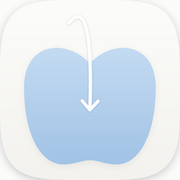
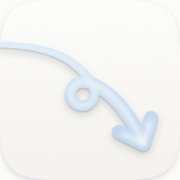
랜딩: 새 앱 아이콘 + 맨 위 로고 모션, 순서 정리 (#71)
* 랜딩: 시연 메뉴 막대의 Apple 로고 삭제, Pretendard 폰트 라이선스(OFL) 파일 추가

Claude-Session: https://claude.ai/code/session_015GUgjoKAUx4Gmz2Dovu94t

* 랜딩: 새 앱 아이콘(하늘 선)으로 아이콘·공유 미리보기 교체

- assets/favicon.png, icon-128.png, icon-256.png, apple-touch-icon.png, icon.png 교체
- og.png 왼쪽 아이콘만 교체(문구·배치 그대로), og:image ?v=9 → ?v=10

Claude-Session: https://claude.ai/code/session_015GUgjoKAUx4Gmz2Dovu94t

* 임시: 앱 아이콘 파일 전달용 (다음 커밋에서 삭제)

Claude-Session: https://claude.ai/code/session_015GUgjoKAUx4Gmz2Dovu94t

* 임시 아이콘 전달 파일 삭제

Claude-Session: https://claude.ai/code/session_015GUgjoKAUx4Gmz2Dovu94t

* 랜딩: 맨 위 로고 모션 추가, 순서를 로고·제목 → 시연 → 설명으로

- logo.js: 화살표 선이 그려지고 아이콘이 된 뒤 Dropfit 글자가 나오는 모션(한 번 재생 후 멈춤, 동작 줄이기 대응)
- 시연 무대를 제목 아래로 이동, 시연·넘겨 보기 애니메이션은 그대로
- 제목 위 작은 글씨에서 로고와 겹치는 'Dropfit ·' 제거

Claude-Session: https://claude.ai/code/session_015GUgjoKAUx4Gmz2Dovu94t

* 다운로드 집계 버전 0.6.4로

Claude-Session: https://claude.ai/code/session_015GUgjoKAUx4Gmz2Dovu94t

* 임시: macOS 26 아이콘 시험 파일 전달용 (다음 커밋에서 삭제)

Claude-Session: https://claude.ai/code/session_015GUgjoKAUx4Gmz2Dovu94t

* 임시 전달 파일 삭제

Claude-Session: https://claude.ai/code/session_015GUgjoKAUx4Gmz2Dovu94t

* 다운로드 집계 버전은 앱 공개 때 0.6.4로 (지금 받는 파일은 0.6.3)

Claude-Session: https://claude.ai/code/session_015GUgjoKAUx4Gmz2Dovu94t

---------

diff --git a/logo.js b/logo.js
@@ -1,0 +1,145 @@
+/* Dropfit 첫 화면 로고 모션
+   화살표 선이 그려지고(아이콘과 같은 경로·굵기 2.2→5.6) → 아이콘 칸이 떠오르며 꼬리가 칸에 맞춰 잘리고 속빛이 켜짐
+   → 아이콘이 살짝 올라가며 Dropfit 글자가 한 자씩. 화면에 들어오면 한 번 재생하고 완성된 모습으로 멈춘다.
+   속도는 첫 시안의 0.8배(K = 1.25), 튕김 없는 곡선만 쓴다. '동작 줄이기'에서는 완성된 모습만 보인다. */
+(function () {
+  'use strict';
+  var host = document.getElementById('dfLogo');
+  if (!host) return;
+
+  var NS = 'http://www.w3.org/2000/svg';
+  var GP = 'M9.7 33.3C26 32.6 40 34.5 48.2 41.2C53.4 45.5 56.3 49.4 56.3 53A4.8 4.8 0 1 1 51.5 48.2C59.5 48.2 70 59 76 73.2';
+  var K = 1.25, END = 3.1 * K;
+
+  /* 아이콘 바깥 모양(스퀘어클, n = 5): 앱 아이콘과 같은 식으로 만든다 */
+  function squircle() {
+    var pts = [], n = 5, a = 42;
+    for (var i = 0; i < 360; i++) {
+      var t = i / 360 * 2 * Math.PI, c = Math.cos(t), s = Math.sin(t);
+      pts.push((50 + a * Math.sign(c) * Math.pow(Math.abs(c), 2 / n)).toFixed(3) + ' ' + (50 + a * Math.sign(s) * Math.pow(Math.abs(s), 2 / n)).toFixed(3));
+    }
+    return 'M' + pts.join('L') + 'Z';
+  }
+  var SQ = squircle();
+
+  function bezier(x1, y1, x2, y2) {
+    return function (x) {
+      if (x <= 0) return 0; if (x >= 1) return 1;
+      var t = x;
+      for (var i = 0; i < 12; i++) {
+        var cx = 3 * x1 * t * (1 - t) * (1 - t) + 3 * x2 * t * t * (1 - t) + t * t * t - x;
+        if (Math.abs(cx) < 1e-6) break;
+        var dx = 3 * x1 * (1 - t) * (1 - t) + 6 * (x2 - x1) * t * (1 - t) + 3 * (1 - x2) * t * t;
+        t = Math.min(1, Math.max(0, t - cx / (dx || 1e-6)));
+      }
+      return 3 * y1 * t * (1 - t) * (1 - t) + 3 * y2 * t * t * (1 - t) + t * t * t;
+    };
+  }
+  var DRAW = bezier(0.55, 0, 0.18, 1), GLIDE = bezier(0.22, 1, 0.36, 1), SILK = bezier(0.65, 0, 0.25, 1);
+  function seg(T, a, d) { return Math.min(1, Math.max(0, (T - a) / d)); }
+  function lerp(a, b, t) { return a + (b - a) * t; }
+  function f2(n) { return n.toFixed(2); }
+
+  /* 선 표본 */
+  var probe = document.createElementNS(NS, 'svg');
+  probe.setAttribute('width', '0'); probe.setAttribute('height', '0'); probe.style.position = 'absolute';
+  var pe = document.createElementNS(NS, 'path'); pe.setAttribute('d', GP); probe.appendChild(pe);
+  document.body.appendChild(probe);
+  var L = pe.getTotalLength(), N = 700, PTS = [];
+  for (var i = 0; i <= N; i++) {
+    var s = i / N * L, p = pe.getPointAtLength(s), q = pe.getPointAtLength(Math.min(L, s + 0.12)), o = pe.getPointAtLength(Math.max(0, s - 0.12));
+    var dx = q.x - o.x, dy = q.y - o.y, m = Math.hypot(dx, dy) || 1;
+    PTS.push([p.x, p.y, -dy / m, dx / m]);
+  }
+  document.body.removeChild(probe);
+  function W(t) { t = t * t * (3 - 2 * t); return 2.2 + 3.4 * t; }
+  function ribbon(u, k) {
+    k = k || 1;
+    var n = Math.max(1, Math.round(u * N)), l = [], r = [];
+    for (var j = 0; j <= n; j++) {
+      var P = PTS[j], w = W(j / N) * k / 2;
+      l.push(f2(P[0] + P[2] * w) + ' ' + f2(P[1] + P[3] * w));
+      r.push(f2(P[0] - P[2] * w) + ' ' + f2(P[1] - P[3] * w));
+    }
+    return 'M' + l.concat(r.reverse()).join('L') + 'Z';
+  }
+  var FULL = ribbon(1), CORE = ribbon(1, 0.42);
+  var TIP = [76, 73.2], ARM_A = [79.13, 62.66], ARM_B = [66.14, 68.32];
+  function around(sc) { return 'translate(50 50) scale(' + sc.toFixed(4) + ') translate(-50 -50)'; }
+
+  var u = 'dfl';
+  host.innerHTML = '<div class="lg-lock"><div class="lg-ic"><svg viewBox="0 0 100 100" aria-hidden="true"><defs>' +
+    '<linearGradient id="b' + u + '" x1="0" y1="0" x2="0" y2="1"><stop offset="0" stop-color="#FCFCFA"/><stop offset="1" stop-color="#F3F2EE"/></linearGradient>' +
+    '<filter id="s' + u + '" x="-20%" y="-20%" width="140%" height="140%"><feDropShadow dx="0" dy="1.2" stdDeviation="1.4" flood-color="rgb(18,28,45)" flood-opacity=".12"/></filter>' +
+    '<filter id="h' + u + '" x="-20%" y="-20%" width="140%" height="140%"><feDropShadow dx="0" dy="0.5" stdDeviation="0.35" flood-color="rgb(18,28,45)" flood-opacity=".18"/><feDropShadow dx="0" dy="1.8" stdDeviation="1.6" flood-color="rgb(18,28,45)" flood-opacity=".14"/></filter>' +
+    '<linearGradient id="vg' + u + '" gradientUnits="userSpaceOnUse" x1="0" y1="30" x2="0" y2="76"><stop offset="0" stop-color="#dae9f7"/><stop offset="1" stop-color="#bed5ec"/></linearGradient>' +
+    '<clipPath id="t' + u + '"><path class="lg-clip" d="' + SQ + '"/></clipPath>' +
+    '<mask id="cm' + u + '" maskUnits="userSpaceOnUse" x="-20" y="-20" width="140" height="140"><g fill="#fff"><path d="' + FULL + '"/><circle cx="9.7" cy="33.3" r="1.1"/><circle cx="76" cy="73.2" r="2.8"/></g><path d="M79.13 62.66L76 73.2L66.14 68.32" fill="none" stroke="#fff" stroke-width="5.6" stroke-linecap="round" stroke-linejoin="round"/></mask>' +
+    '<filter id="cb' + u + '" filterUnits="userSpaceOnUse" x="-20" y="-20" width="140" height="140"><feGaussianBlur stdDeviation="0.9"/></filter></defs>' +
+    '<path class="lg-tile" d="' + SQ + '" fill="url(#b' + u + ')" filter="url(#s' + u + ')"/>' +
+    '<g clip-path="url(#t' + u + ')"><g transform="translate(50 50) scale(1.16) translate(-54.5 -51.5)">' +
+      '<g filter="url(#h' + u + ')"><g fill="url(#vg' + u + ')"><path class="lg-rb"/><circle cx="9.7" cy="33.3" r="1.1"/><circle class="lg-hd"/></g>' +
+      '<path class="lg-chev" fill="none" stroke="url(#vg' + u + ')" stroke-width="5.6" stroke-linecap="round"/></g>' +
+      '<g class="lg-core" mask="url(#cm' + u + ')"><g filter="url(#cb' + u + ')" fill="#FCFCFA" fill-opacity=".6"><path d="' + CORE + '"/><circle cx="9.7" cy="33.3" r=".46"/><circle cx="76" cy="73.2" r="1.18"/>' +
+      '<path d="M78.51 64.76L76 73.2L68.11 69.3" fill="none" stroke="#FCFCFA" stroke-opacity=".6" stroke-width="2.352" stroke-linecap="round" stroke-linejoin="round"/></g></g>' +
+    '</g></g></svg></div>' +
+    '<div class="lg-wm" aria-hidden="true">' + 'Dropfit'.split('').map(function (c) { return '<span>' + c + '</span>'; }).join('') + '</div></div>';
+
+  function pick(sel) { return host.querySelector(sel); }
+  var E = { ic: pick('.lg-ic'), tile: pick('.lg-tile'), clip: pick('.lg-clip'), rb: pick('.lg-rb'), hd: pick('.lg-hd'), chev: pick('.lg-chev'),
+    core: pick('.lg-core'), letters: [].slice.call(host.querySelectorAll('.lg-wm span')) };
+  var lastU = -1;
+
+  function render(T) {
+    T = T / K;
+    /* 1. 선 그리기: 천천히 출발해 길게 감속 */
+    var du = DRAW(seg(T, 0.15, 1.0));
+    if (du !== lastU) {
+      lastU = du;
+      if (du <= 0) { E.rb.setAttribute('d', ''); E.hd.setAttribute('r', '0'); }
+      else {
+        E.rb.setAttribute('d', ribbon(du));
+        var P = PTS[Math.max(1, Math.round(du * N))];
+        E.hd.setAttribute('cx', f2(P[0])); E.hd.setAttribute('cy', f2(P[1])); E.hd.setAttribute('r', f2(W(du) / 2));
+      }
+    }
+    var a = GLIDE(seg(T, 1.0, 0.34)), b = GLIDE(seg(T, 1.07, 0.34)), d = '';
+    if (a > 0) d += 'M' + TIP[0] + ' ' + TIP[1] + 'L' + f2(lerp(TIP[0], ARM_A[0], a)) + ' ' + f2(lerp(TIP[1], ARM_A[1], a));
+    if (b > 0) d += 'M' + TIP[0] + ' ' + TIP[1] + 'L' + f2(lerp(TIP[0], ARM_B[0], b)) + ' ' + f2(lerp(TIP[1], ARM_B[1], b));
+    E.chev.setAttribute('d', d);
+    /* 2. 아이콘이 됨 */
+    E.tile.setAttribute('opacity', GLIDE(seg(T, 1.2, 0.55)).toFixed(3));
+    E.tile.setAttribute('transform', around(0.94 + 0.06 * GLIDE(seg(T, 1.2, 0.8))));
+    E.clip.setAttribute('transform', around(1.7 - 0.7 * SILK(seg(T, 1.2, 0.8))));
+    E.core.setAttribute('opacity', SILK(seg(T, 1.5, 0.65)).toFixed(3));
+    /* 3. 이름 */
+    var icw = E.ic.offsetWidth || 240, lift = (1 - SILK(seg(T, 1.9, 0.8))) * icw * (0.096 + 0.226 * 1.1) / 2;
+    var icS = 1.38 - 0.38 * SILK(seg(T, 1.12, 0.9));
+    E.ic.style.transform = 'translateY(' + lift.toFixed(2) + 'px) scale(' + icS.toFixed(4) + ')';
+    E.letters.forEach(function (el, i) {
+      var k = GLIDE(seg(T, 2.0 + 0.065 * i, 0.75));
+      el.style.opacity = k.toFixed(3);
+      el.style.transform = k < 1 ? 'translateY(' + ((1 - k) * icw * 0.03).toFixed(2) + 'px)' : 'none';
+      el.style.filter = k < 1 ? 'blur(' + ((1 - k) * icw * 0.02).toFixed(2) + 'px)' : 'none';
+    });
+  }
+
+  var reduce = window.matchMedia && window.matchMedia('(prefers-reduced-motion: reduce)').matches;
+  var t0 = null;
+  function frame(now) {
+    if (t0 === null) t0 = now;
+    var T = (now - t0) / 1000;
+    render(Math.min(T, END));
+    if (T < END) requestAnimationFrame(frame);
+  }
+  function play() { t0 = null; setTimeout(function () { requestAnimationFrame(frame); }, 350); }
+
+  if (reduce) { render(END); return; }
+  render(0);
+  if ('IntersectionObserver' in window) {
+    var io = new IntersectionObserver(function (es) {
+      es.forEach(function (e) { if (e.isIntersecting) { io.disconnect(); play(); } });
+    }, { threshold: 0.5 });
+    io.observe(host);
+  } else play();
+})();

diff --git a/index.html b/index.html
@@ -13,13 +13,13 @@
 <meta property="og:description" content="끌어다 놓으면 끝. 사진·PDF 변환과 자르기를 Mac에서 무료로.">
 <link rel="canonical" href="https://realleejeonghoon.github.io/dropfit-download/">
 <meta property="og:url" content="https://realleejeonghoon.github.io/dropfit-download/">
-<meta property="og:image" content="https://realleejeonghoon.github.io/dropfit-download/assets/og.png?v=9">
+<meta property="og:image" content="https://realleejeonghoon.github.io/dropfit-download/assets/og.png?v=10">
 <meta property="og:image:width" content="1200">
 <meta property="og:image:height" content="630">
 <meta property="og:image:alt" content="Dropfit 앱 아이콘과 문구 ‘끌어다 놓으면, 끝. Dropfit · Mac용 무료 이미지·PDF 변환 앱’">
 <meta property="og:locale" content="ko_KR">
 <meta name="twitter:card" content="summary_large_image">
-<meta name="twitter:image" content="https://realleejeonghoon.github.io/dropfit-download/assets/og.png?v=9">
+<meta name="twitter:image" content="https://realleejeonghoon.github.io/dropfit-download/assets/og.png?v=10">
 
 <link rel="stylesheet" href="fonts/pretendardvariable-dynamic-subset.css">
 <link rel="icon" type="image/png" href="assets/favicon.png">
@@ -94,6 +94,18 @@
   .intro .cta { flex-direction: row; justify-content: center; align-items: center; gap: 28px; margin-top: 36px; }
   .intro .cta-alt { font-size: 17px; }
   .intro .notice { margin: 28px auto 0; text-align: center; }
+  /* 맨 위 로고 모션(logo.js): 칸 없이 바탕에 바로, 아이콘은 무대 폭의 23%(최대 240px) */
+  .logo-top { padding: 56px 0 0; }
+  .logo-box { container-type: inline-size; }
+  .lg-lock { --icw: clamp(120px, 23cqw, 240px); display: flex; flex-direction: column; align-items: center; gap: calc(var(--icw) * .096); }
+  .lg-ic { width: var(--icw); aspect-ratio: 1; will-change: transform; }
+  .lg-ic svg { display: block; width: 100%; height: 100%; overflow: visible; }
+  .lg-wm { font-weight: 600; font-size: calc(var(--icw) * .226); line-height: 1.1; letter-spacing: -0.02em; color: var(--ink); display: flex; white-space: nowrap; }
+  .lg-wm span { display: inline-block; opacity: 0; }
+  .logo-top + .intro { padding-top: 36px; }
+  .intro + .demo-top { padding-top: 24px; }
+  @media (max-width: 734px) { .logo-top { padding-top: 40px; } .logo-top + .intro { padding-top: 28px; } }
+  @media (prefers-reduced-motion: reduce) { .lg-wm span { opacity: 1; } }
   @media (max-width: 734px) {
     .intro { padding: 44px 0 8px; }
     .intro .cta { flex-direction: column; gap: 16px; margin-top: 28px; }
@@ -616,7 +628,7 @@
   .cta-alt { font-size: 17px; }
   footer { background: #fbfbfd; }
   footer a { color: var(--ink-2); }
-  /* 시연을 첫 화면 맨 위에 */
+  /* 시연 무대 (11/3부터 로고·제목 아래) */
   .demo-top { padding: 40px 0 0; }
   .demo-top .stage { margin: 0; aspect-ratio: 16 / 10; animation: rise 1.1s var(--ease) both; }
   @media (max-width: 734px) { .demo-top { padding-top: 20px; } .demo-top .stage { aspect-ratio: 4 / 3.4; } }
@@ -685,17 +697,15 @@
   </div>
 </nav>
 
-<section class="demo-top" id="how" aria-label="Dropfit 시연">
+<section class="logo-top" aria-label="Dropfit">
   <div class="wrap">
-    <div class="stage" id="dfTop" role="img" aria-label="이미지를 Dropfit에 끌어와 포맷을 고르면 변환되는 시연: 사진 1장, 여러 장, 폴더, 여러 장을 PDF 하나로, 자르기">
-      <div class="menubar" aria-hidden="true"><b>Finder</b><span>파일</span><span>편집</span><span>보기</span><span class="mb-x">이동</span><span class="mb-x">윈도우</span><span class="mb-x">도움말</span><span class="sp mb-ic"><svg viewBox="0 0 24 14"><rect x=".75" y=".75" width="20" height="12.5" rx="3.6" fill="none" stroke="currentColor" stroke-width="1.2" opacity=".55"/><rect x="2.6" y="2.6" width="13" height="8.8" rx="2" fill="currentColor"/><path d="M22.6 5v4c.8-.3 1.3-1.1 1.3-2s-.5-1.7-1.3-2z" fill="currentColor" opacity=".55"/></svg></span><span class="mb-ic"><svg viewBox="0 0 18 14"><path d="M9 12.6 6.4 9.9a3.7 3.7 0 0 1 5.2 0zM3.9 7.4a7.3 7.3 0 0 1 10.2 0l-1.3 1.3a5.5 5.5 0 0 0-7.6 0zM1.3 4.8a11 11 0 0 1 15.4 0l-1.3 1.3a9.2 9.2 0 0 0-12.8 0z" fill="currentColor"/></svg></span><span class="mb-ic mb-x"><svg viewBox="0 0 16 14"><rect x=".7" y=".7" width="14.6" height="5.4" rx="2.7" fill="none" stroke="currentColor" stroke-width="1.2"/><circle cx="12.6" cy="3.4" r="1.6" fill="currentColor"/><rect x=".7" y="7.9" width="14.6" height="5.4" rx="2.7" fill="none" stroke="currentColor" stroke-width="1.2"/><circle cx="3.4" cy="10.6" r="1.6" fill="currentColor"/></svg></span><span id="demoDate">10월 22일 (목) 오후 3:54</span></div>
-    </div>
+    <div class="logo-box" id="dfLogo" role="img" aria-label="Dropfit 로고"></div>
   </div>
 </section>
 
 <header class="intro" id="top">
   <div class="wrap">
-    <p class="tag">Dropfit · Mac용 무료 이미지·PDF 변환 앱</p>
+    <p class="tag">Mac용 무료 이미지·PDF 변환 앱</p>
     <h1>끌어다 놓으면, <span class="grad">끝.</span></h1>
     <p class="lede">이미지와 PDF를 원하는 포맷으로. <br class="m">한 장도, 폴더째로도.</p>
     <div class="cta">
@@ -711,6 +721,14 @@
     </div>
   </div>
 </header>
+
+<section class="demo-top" id="how" aria-label="Dropfit 시연">
+  <div class="wrap">
+    <div class="stage" id="dfTop" role="img" aria-label="이미지를 Dropfit에 끌어와 포맷을 고르면 변환되는 시연: 사진 1장, 여러 장, 폴더, 여러 장을 PDF 하나로, 자르기">
+      <div class="menubar" aria-hidden="true"><b>Finder</b><span>파일</span><span>편집</span><span>보기</span><span class="mb-x">이동</span><span class="mb-x">윈도우</span><span class="mb-x">도움말</span><span class="sp mb-ic"><svg viewBox="0 0 24 14"><rect x=".75" y=".75" width="20" height="12.5" rx="3.6" fill="none" stroke="currentColor" stroke-width="1.2" opacity=".55"/><rect x="2.6" y="2.6" width="13" height="8.8" rx="2" fill="currentColor"/><path d="M22.6 5v4c.8-.3 1.3-1.1 1.3-2s-.5-1.7-1.3-2z" fill="currentColor" opacity=".55"/></svg></span><span class="mb-ic"><svg viewBox="0 0 18 14"><path d="M9 12.6 6.4 9.9a3.7 3.7 0 0 1 5.2 0zM3.9 7.4a7.3 7.3 0 0 1 10.2 0l-1.3 1.3a5.5 5.5 0 0 0-7.6 0zM1.3 4.8a11 11 0 0 1 15.4 0l-1.3 1.3a9.2 9.2 0 0 0-12.8 0z" fill="currentColor"/></svg></span><span class="mb-ic mb-x"><svg viewBox="0 0 16 14"><rect x=".7" y=".7" width="14.6" height="5.4" rx="2.7" fill="none" stroke="currentColor" stroke-width="1.2"/><circle cx="12.6" cy="3.4" r="1.6" fill="currentColor"/><rect x=".7" y="7.9" width="14.6" height="5.4" rx="2.7" fill="none" stroke="currentColor" stroke-width="1.2"/><circle cx="3.4" cy="10.6" r="1.6" fill="currentColor"/></svg></span><span id="demoDate">10월 22일 (목) 오후 3:54</span></div>
+    </div>
+  </div>
+</section>
 
 
 
@@ -889,6 +907,7 @@
 
   })();
 </script>
+<script src="logo.js?v=1" defer></script>
 <script src="demo.js?v=15" defer></script>
 </body>
 </html>
